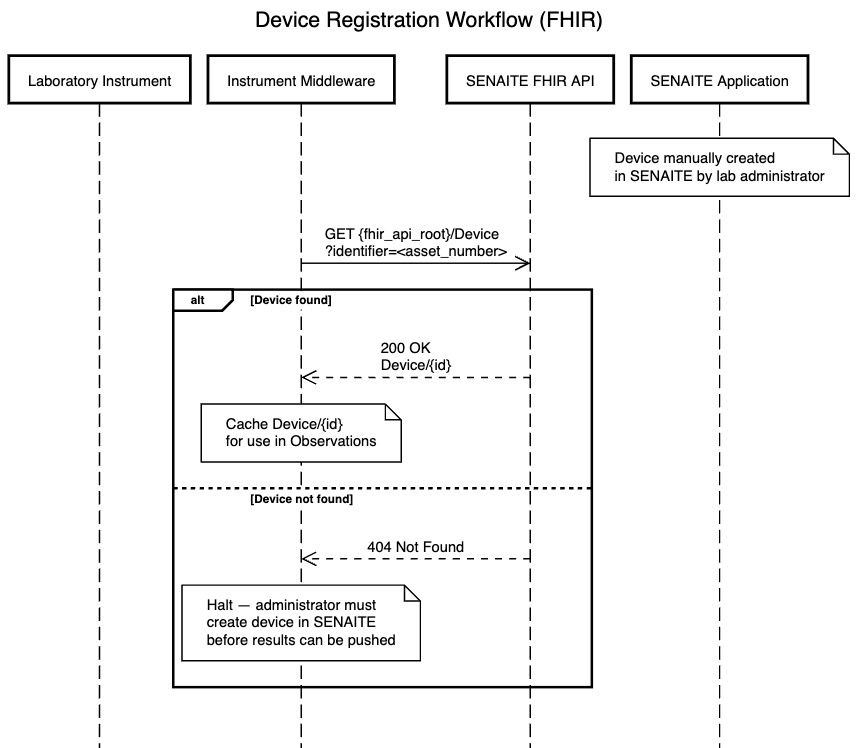
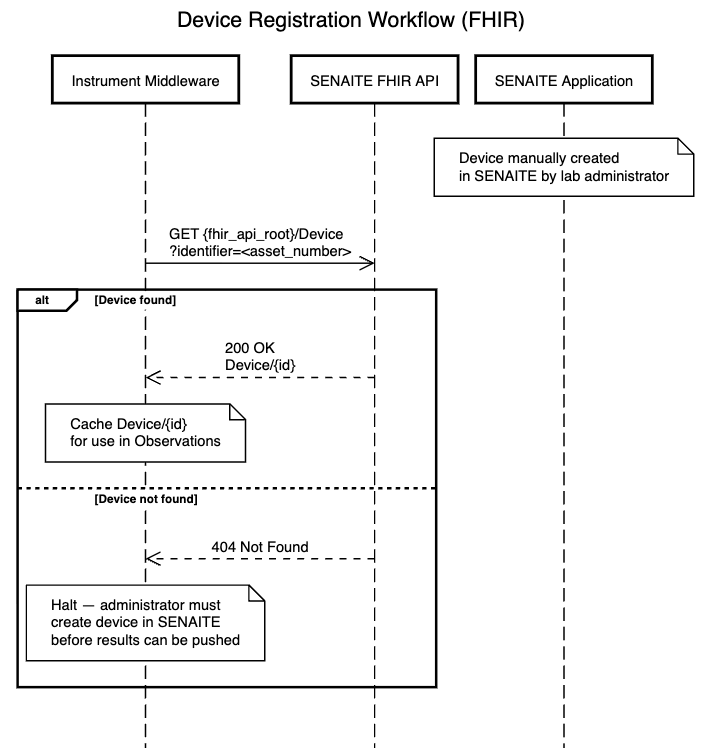
Fixed typos, sushi errors

diff --git a/input/pagecontent/index.md b/input/pagecontent/index.md
@@ -11,9 +11,9 @@ Should your use cases reside outside of health such as industrial applications p
 For those unfamiliar, FHIR uses a RESTFul API approach based on data structures called Resources. Full FHIR documentation is available [here](https://hl7.org/fhir/R5/index.html).
 
 ## Target Audience
-The likely user of this IG is a party wishing integrate SENAITE into a wider health eco-system, most likely either directly with an EHR or with a Middleware layer as part of a broader interoperability strategy. The workflows listed below enable external requests for sample processing to be available in SENAITE and results created for those requests from SENAITE to be made available EHR. Please see the Design Principles section below to understand the options regarding the flow of these resources.
+The likely user of this IG is a party wishing to integrate SENAITE into a wider health eco-system, most likely either directly with an EHR or with a Middleware layer as part of a broader interoperability strategy. The workflows listed below enable external requests for sample processing to be available in SENAITE and results created for those requests from SENAITE to be made available EHR. Please see the Design Principles section below to understand the options regarding the flow of these resources.
 
-Another audience might be those who wish to integrate intruments with SENAITE via a FHIR protocol.  
+Another audience might be those who wish to integrate instruments with SENAITE via a FHIR protocol.  
 
 ## Design Principles
 To expose lab requests and attain their results from SENAITE the first decision should be to decide on which side is hosting the API. There are two options here:

diff --git a/input/pagecontent/project-management.md b/input/pagecontent/project-management.md
@@ -16,9 +16,9 @@ As described in the [Lab Request and Results workflow description](lab-request-a
 The results include optional raw results including numeric, coded and textual results from each test in the diagnostic report as Observations. The devil here is certainly in the detail, because depending on which panels and tests determines the complexity here. For example, microbiological tests can involve some very complicated reflex testing workflows.
 
 ### Phase 2: Instrument Workflow
-For a full description of this workflow please see [Instrument Integration Workflow](instrument-integration.html). This requires Phase 1 be implemented first as both systems will need to an identified ServiceRequest with which to attach results.
+For a full description of this workflow please see [Instrument Integration Workflow](instrument-integration.html). This requires Phase 1 be implemented first as both systems will need an identified ServiceRequest with which to attach results.
 
-This phase is still in the draft phase. 
+This phase is still in the draft. 
 
 ## Requirements Discovery: Questions for Implementers
 Each integration is different but there is a standard set of questions which can ensure the integration performs correctly.
